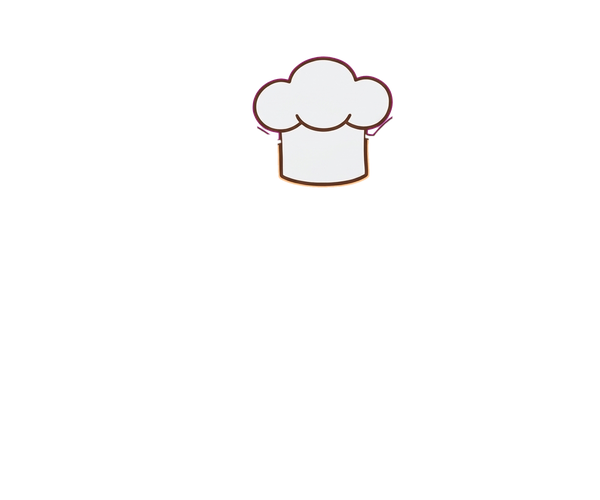
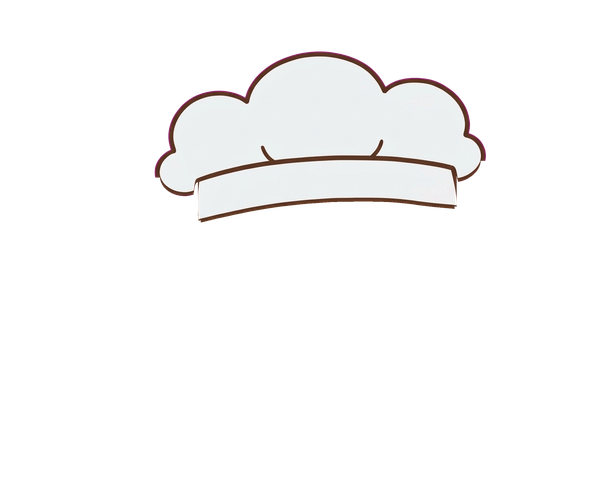
Taç ve aşçı şapkası büyütüldü, korsanda kulaklar gizlendi

Changed region(s): [[0.24, 0.09, 0.81, 0.42], [0.33, 0.42, 0.42, 0.45], [0.27, 0.36, 0.33, 0.39]]

diff --git a/index.html b/index.html
@@ -11,7 +11,7 @@
 <meta name="apple-mobile-web-app-title" content="Pati">
 <title>İngilizce Prototip</title>
 <link href="https://fonts.googleapis.com/css2?family=Fredoka:wght@500;600;700&family=Nunito:wght@500;700;800;900&display=swap" rel="stylesheet">
-<link rel="stylesheet" href="css/stil.css?v=0.5.1">
+<link rel="stylesheet" href="css/stil.css?v=0.5.2">
 </head>
 <body>
 <div id="uygulama">
@@ -339,28 +339,28 @@
 </div>
 
 <!-- Sürüm (0.4.0) her yayında js/ayarlar.js UYGULAMA_SURUM ile birlikte artırılır. Sıra önemli: önce veri, sonra kurallar, ekranlar; en son baslat.js uygulamayı açar. -->
-<script src="vendor/capacitor.js?v=0.5.1"></script>
-<script src="veri/kelimeler.js?v=0.5.1"></script>
-<script src="veri/phrasal.js?v=0.5.1"></script>
-<script src="veri/cumleler.js?v=0.5.1"></script>
-<script src="js/yardimci.js?v=0.5.1"></script>
-<script src="js/kayit.js?v=0.5.1"></script>
-<script src="js/ekonomi.js?v=0.5.1"></script>
-<script src="js/ilerleme.js?v=0.5.1"></script>
-<script src="js/durum.js?v=0.5.1"></script>
-<script src="js/ana-sayfa.js?v=0.5.1"></script>
-<script src="js/kelime-calisma.js?v=0.5.1"></script>
-<script src="js/ses.js?v=0.5.1"></script>
-<script src="js/cihaz.js?v=0.5.1"></script>
-<script src="js/alistirmalar.js?v=0.5.1"></script>
-<script src="js/odul-takvim.js?v=0.5.1"></script>
-<script src="js/hazne.js?v=0.5.1"></script>
-<script src="js/sosyal.js?v=0.5.1"></script>
-<script src="js/gezinme.js?v=0.5.1"></script>
-<script src="js/kedi.js?v=0.5.1"></script>
-<script src="js/kedi-cizim.js?v=0.5.1"></script>
-<script src="js/balik-avi.js?v=0.5.1"></script>
-<script src="js/ayarlar.js?v=0.5.1"></script>
-<script src="js/baslat.js?v=0.5.1"></script>
+<script src="vendor/capacitor.js?v=0.5.2"></script>
+<script src="veri/kelimeler.js?v=0.5.2"></script>
+<script src="veri/phrasal.js?v=0.5.2"></script>
+<script src="veri/cumleler.js?v=0.5.2"></script>
+<script src="js/yardimci.js?v=0.5.2"></script>
+<script src="js/kayit.js?v=0.5.2"></script>
+<script src="js/ekonomi.js?v=0.5.2"></script>
+<script src="js/ilerleme.js?v=0.5.2"></script>
+<script src="js/durum.js?v=0.5.2"></script>
+<script src="js/ana-sayfa.js?v=0.5.2"></script>
+<script src="js/kelime-calisma.js?v=0.5.2"></script>
+<script src="js/ses.js?v=0.5.2"></script>
+<script src="js/cihaz.js?v=0.5.2"></script>
+<script src="js/alistirmalar.js?v=0.5.2"></script>
+<script src="js/odul-takvim.js?v=0.5.2"></script>
+<script src="js/hazne.js?v=0.5.2"></script>
+<script src="js/sosyal.js?v=0.5.2"></script>
+<script src="js/gezinme.js?v=0.5.2"></script>
+<script src="js/kedi.js?v=0.5.2"></script>
+<script src="js/kedi-cizim.js?v=0.5.2"></script>
+<script src="js/balik-avi.js?v=0.5.2"></script>
+<script src="js/ayarlar.js?v=0.5.2"></script>
+<script src="js/baslat.js?v=0.5.2"></script>
 </body>
 </html>

diff --git a/sw.js b/sw.js
@@ -1,7 +1,7 @@
 // Ana ekrana eklenen uygulama için çevrimdışı destek.
 // Ağ önce: internet varken her zaman sunucudaki en yeni sürüm gelir (eski sürüm takılı kalmasın);
 // internet yoksa en son kaydedilen kopya açılır.
-const ONBELLEK = "pati-v7";
+const ONBELLEK = "pati-v8";
 // Uygulama artık parçalı: stil, veri ve kod dosyaları da çevrimdışı açılış için önbelleğe alınır.
 const KOD = ["css/stil.css", "vendor/capacitor.js", "veri/kelimeler.js", "veri/phrasal.js", "veri/cumleler.js", "js/yardimci.js", "js/kayit.js", "js/ekonomi.js", "js/ilerleme.js", "js/durum.js", "js/ana-sayfa.js",
   "js/kelime-calisma.js", "js/ses.js", "js/cihaz.js", "js/alistirmalar.js", "js/odul-takvim.js", "js/hazne.js", "js/sosyal.js",

diff --git a/js/kedi.js b/js/kedi.js
@@ -36,7 +36,7 @@ const ESYALAR = [
 // farkı katman (giy_*.png, 600x500, kedi çerçevesi + çeyrek pay) olarak çıkarıldı (cizim/giydirme.py).
 // Şapkanın altında kalan kulak uçları silme maskesiyle (sil_*.png) kediden silinir, sonra katman konur.
 // Kedinin çizimi, kürk rengi ve hareketleri tek yerde: js/kedi-cizim.js (KediCizici, kediHareket).
-const SILME_VAR = ["kasket", "hasir", "silindir"];
+const SILME_VAR = ["kasket", "hasir", "silindir", "korsan"];
 function kediHali() { return d.kilo < 4.5 ? "fit" : d.kilo < 6 ? "pofuduk" : d.kilo < 7.5 ? "tombis" : "mega"; }
 const resimOnbellek = {};
 function resimYukle(src) {

diff --git a/js/ayarlar.js b/js/ayarlar.js
@@ -1,6 +1,6 @@
 // ================= AYARLAR =================
 // Ayarlar d.ayar içinde kalıcı (kayit.js izinli değerleri denetler). Yedek ve kaynaklar Ödüller'den buraya taşındı.
-const UYGULAMA_SURUM = "0.5.1";
+const UYGULAMA_SURUM = "0.5.2";
 const AYAR_SATIRLARI = [
   { baslik: "Günlük hedef", aciklama: "Günde kaç soru cevaplayınca hediye açılsın (yanlış cevaplar da çalışma sayılır).", tur: "secim", alan: "hedef",
     secenek: [[5, "5"], [10, "10"], [15, "15"], [20, "20"]] },
